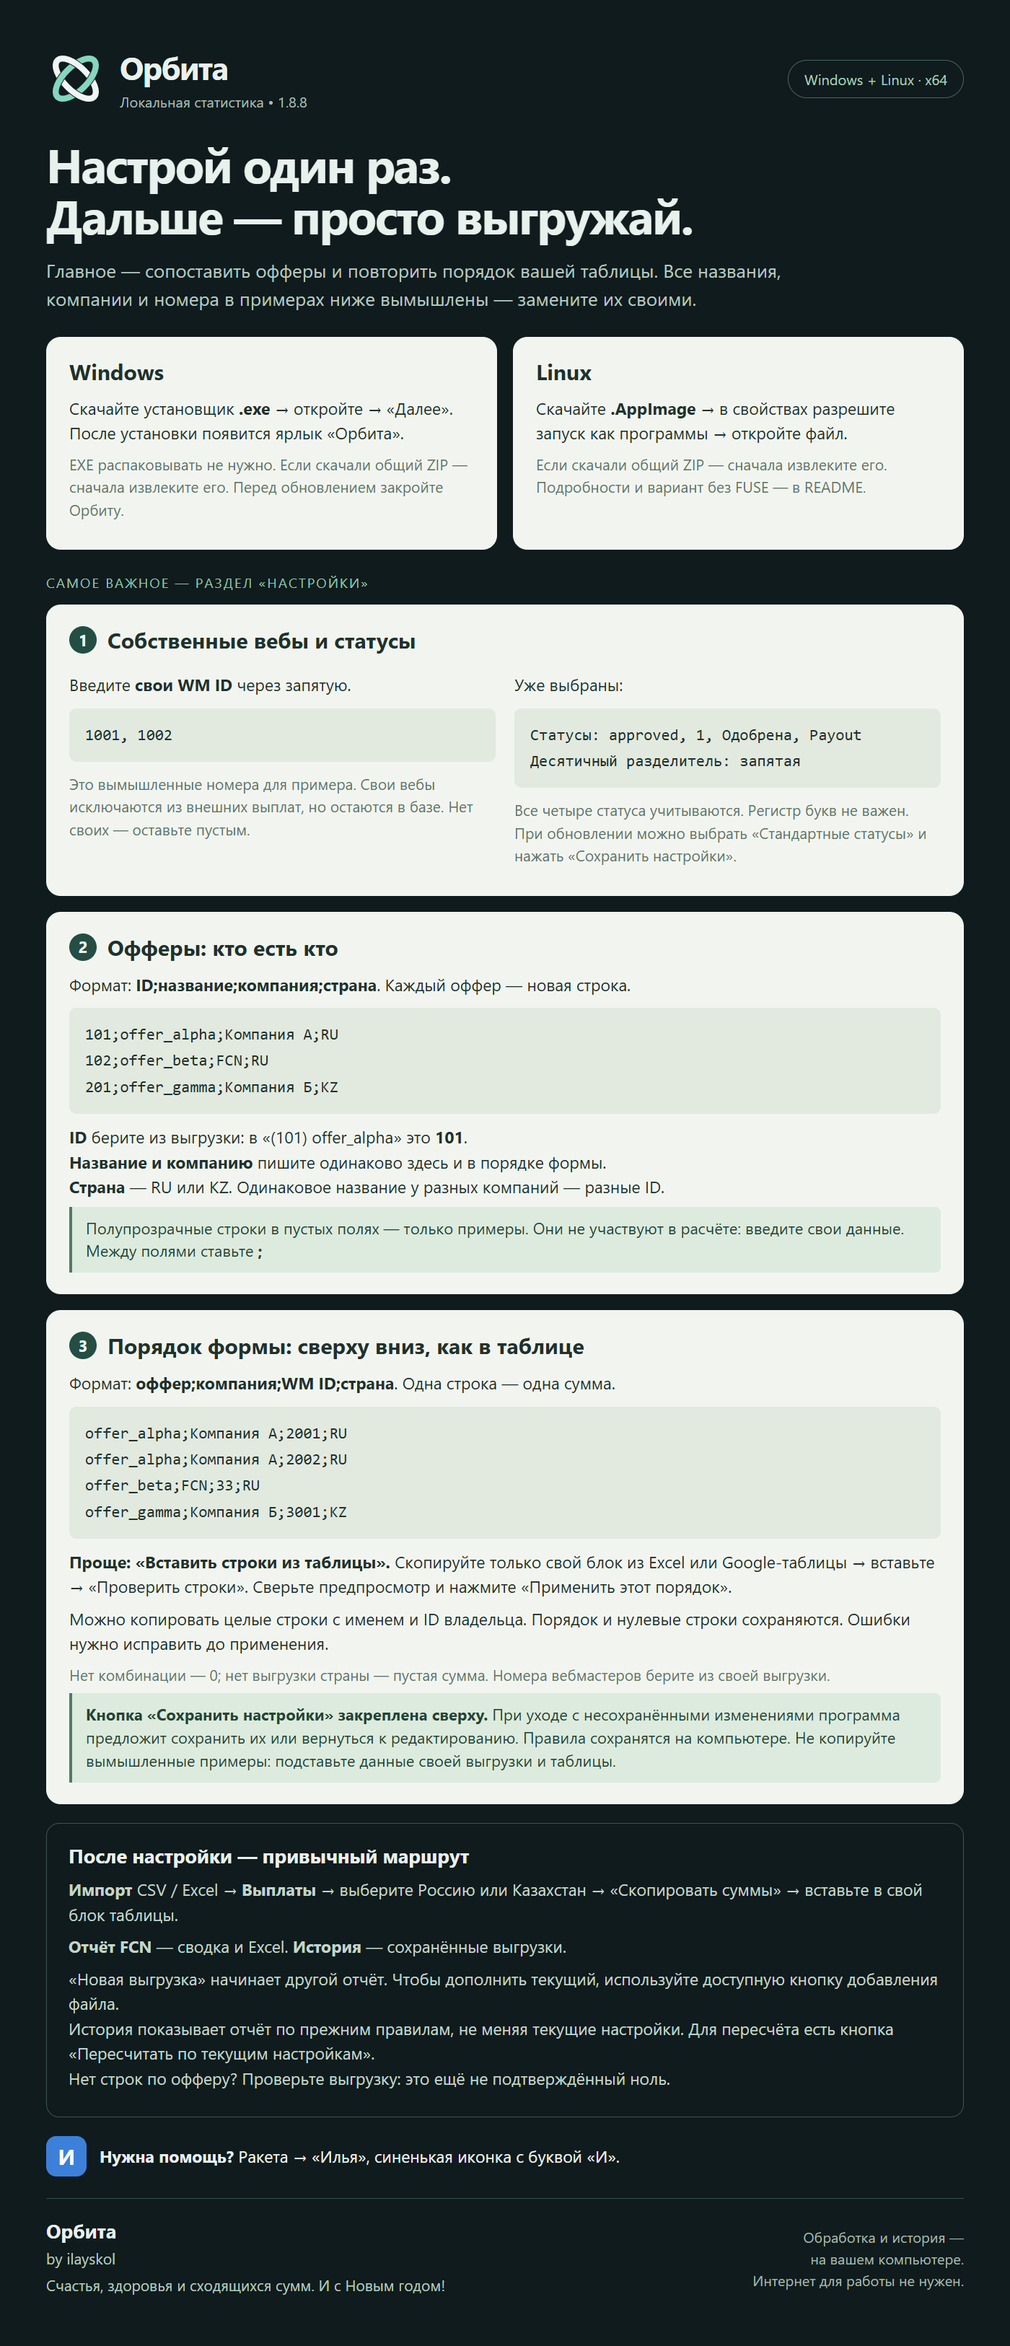
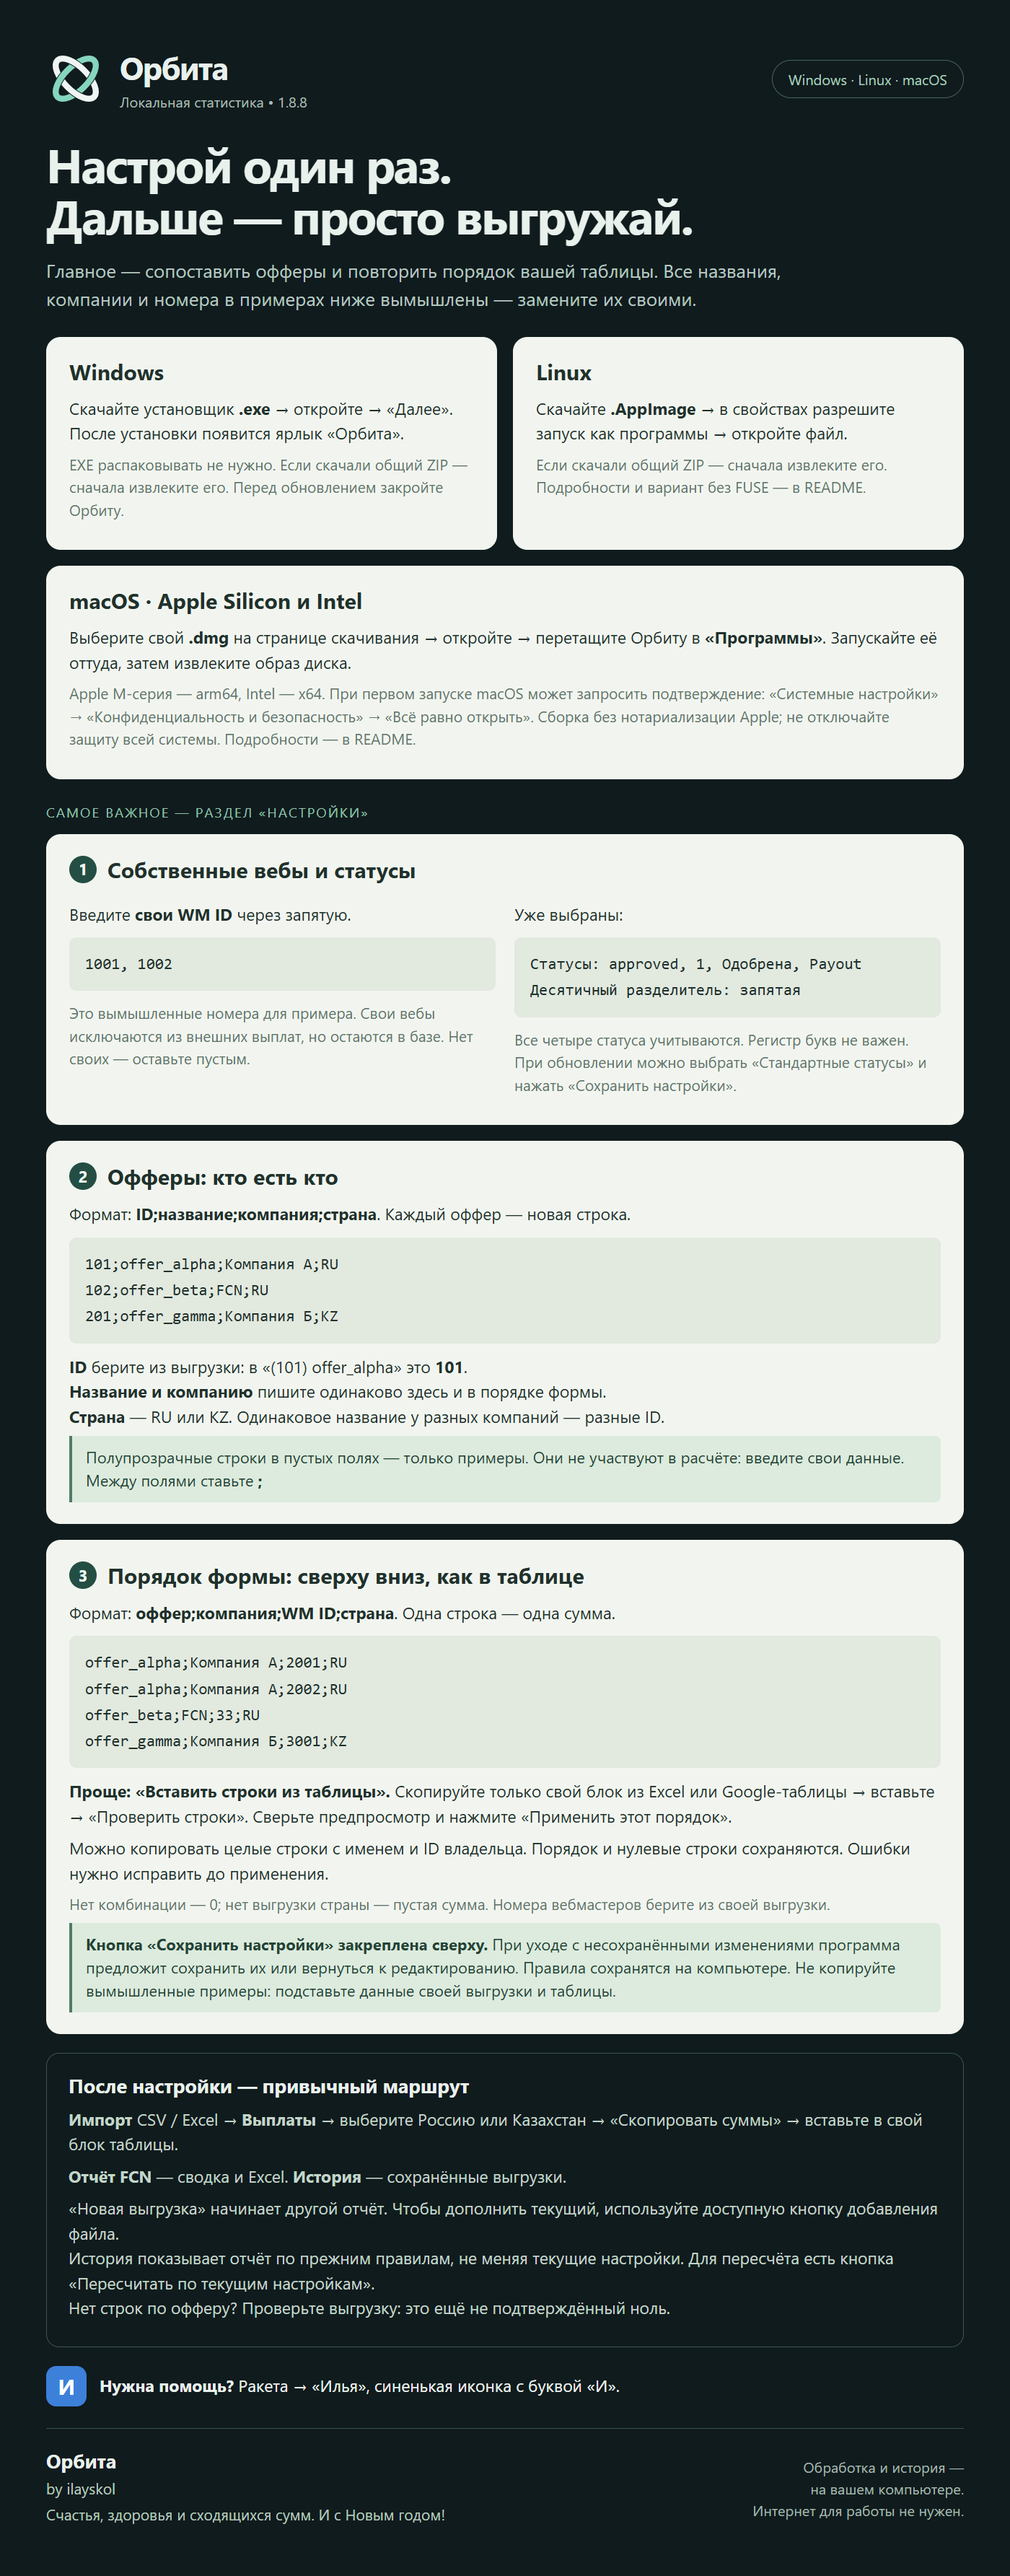
docs: publish macOS downloads and installation guide

diff --git a/README.md b/README.md
@@ -8,12 +8,25 @@
 
 ### 🪟 [Windows — установщик EXE](https://github.com/ilayskol/Orbita/releases/download/v1.8.8/Orbita-Setup-1.8.8.exe)
 ### 🐧 [Linux — AppImage](https://github.com/ilayskol/Orbita/releases/download/v1.8.8/Orbita-1.8.8-linux-x86_64.AppImage)
+### 🍎 macOS — [Apple Silicon (M-серия)](https://github.com/ilayskol/Orbita/releases/download/v1.8.8/Orbita-1.8.8-mac-arm64.dmg) · [Intel](https://github.com/ilayskol/Orbita/releases/download/v1.8.8/Orbita-1.8.8-mac-x64.dmg)
 
 [Общий ZIP для Windows и Linux](https://github.com/ilayskol/Orbita/releases/download/v1.8.8/Orbita-1.8.8-Windows-Linux.zip)
 
 **Версия 1.8.8.** Windows: откройте скачанный EXE и следуйте мастеру установки. Сам EXE распаковывать не нужно. Linux: разрешите AppImage запускаться как программе и откройте файл. Если скачали общий ZIP — сначала извлеките его. Перед обновлением закройте Орбиту.
 
-> **Code → Download ZIP** скачивает материалы этой страницы. Для установки используйте ссылки выше.
+> **Code → Download ZIP** скачивает материалы репозитория, а не установщик. Для установки используйте ссылки выше.
+
+## Установка на Mac
+
+Требуется **macOS 13 или новее**. Сборки работают нативно, без установки Electron или Node.js.
+
+1. В меню **Apple → Об этом Mac** посмотрите чип: Apple M-серия — **Apple Silicon / arm64**, Intel — **Intel / x64**.
+2. Откройте свой **DMG** и перетащите **Орбиту** в **«Программы» (Applications)**.
+3. Запускайте приложение из «Программ», затем извлеките образ диска. Настройки, импорт и отчёты работают так же, как в Windows/Linux; доступны **Cmd+C / Cmd+V / Cmd+A**.
+
+**Первый запуск:** Mac-сборка имеет ad-hoc подпись, но **не сертификат Developer ID и не нотариализована Apple**. macOS может заблокировать открытие. Если доверяете источнику, после попытки запуска откройте **Системные настройки → Конфиденциальность и безопасность → Всё равно открыть** и подтвердите запуск Орбиты. Не отключайте защиту всей системы. На корпоративном Mac доступ может ограничивать администратор. [Инструкция Apple](https://support.apple.com/102445).
+
+Настройки и библиотека: `~/Library/Application Support/PIMOrbit`. При обновлении закройте Орбиту и замените приложение в «Программах»; папка данных находится отдельно. Настройки между разными компьютерами автоматически не синхронизируются.
 
 ## Настройка
 
@@ -44,6 +57,6 @@
 
 Интернет для работы не нужен. Клиентские выгрузки и личная история в установщик не включены. Локальная история не зашифрована: не передавайте её вместе с программой и не публикуйте свои отчёты.
 
-Windows и Linux x64. На Windows проверен рабочий сценарий. На Linux проверены сборка и запуск в тестовой среде; полный сценарий на обычном Linux-десктопе отдельно не проверялся.
+Windows и Linux x64; macOS — отдельные нативные сборки arm64 и x64. На Windows проверен рабочий сценарий. На Linux проверены сборка и запуск в тестовой среде; полный сценарий на обычном Linux-десктопе отдельно не проверялся. Mac-пакеты собираются и проверяются на macOS 15 (Intel) и macOS 26 (Apple Silicon): подпись, архитектура, запуск приложения, настройки, импорт, Excel и история. Пользовательский первый запуск через Gatekeeper на физическом Mac отдельно не проверялся.
 
 Поддержка для коллег: Ракета → «Илья», синяя иконка с буквой «И».
